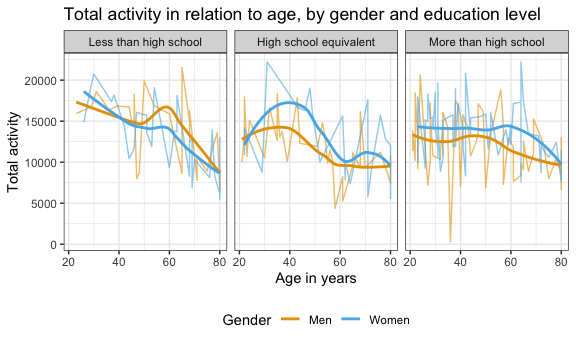
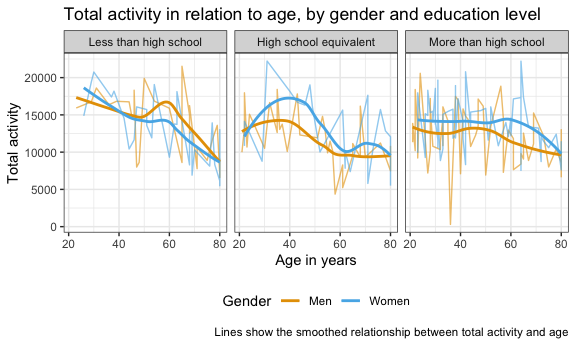
including one final plot on the minute-by-minute activity by gender and education.

diff --git a/hw3_ak4598.md b/hw3_ak4598.md
@@ -424,7 +424,8 @@ ggplot(accel_total, aes(x = age, y = total_activity, color = sex)) +
     title = "Total activity in relation to age, by gender and education level",
     x = "Age in years",
     y = "Total activity",
-    color = "Gender"
+    color = "Gender",
+    caption = "Lines show the smoothed relationship between total activity and age"
   )
 ```
 
@@ -432,8 +433,31 @@ ggplot(accel_total, aes(x = age, y = total_activity, color = sex)) +
 
 ## Problem 3.4
 
-Accelerometer data allows the inspection activity over the course of the
-day. Make a three-panel plot that shows the 24-hour activity time
-courses for each education level and use color to indicate sex. Describe
-in words any patterns or conclusions you can make based on this graph;
-including smooth trends may help identify differences.
+### Create the dataset
+
+This plot is a three-panel plot that shows the 24-hour total activity
+time for each education level, by sex.
+
+``` r
+ggplot(accel_long, aes(x = minute, y = mims, color = sex)) + 
+  geom_line(size = .5, alpha = .2) + 
+  geom_smooth(se = FALSE, alpha = 1, aes(color = sex)) +  
+  scale_color_manual(values=c("#E69F00", "#56B4E9")) + 
+  facet_grid(~education) + 
+  labs(
+    title = "Participant-level activity throughout the day by gender and education",
+    x = "Minute",
+    y = "Activity",
+    color = "Gender",
+    caption = "Lines show the smoothed trend over participants"
+  )
+```
+
+<img src="hw3_ak4598_files/figure-gfm/minute_activity-1.png" width="90%" />
+
+People with more than high school education seem to be most active
+between minutes 500 and 1,200, while people with less than or equivalent
+to high school education seem to have slightly higher activity levels
+earlier in that time frame than after minute 1,000. The more pronounced
+gender differences can be seen in the most-educated category, in which
+women had more activity than men throughout most of the day.
